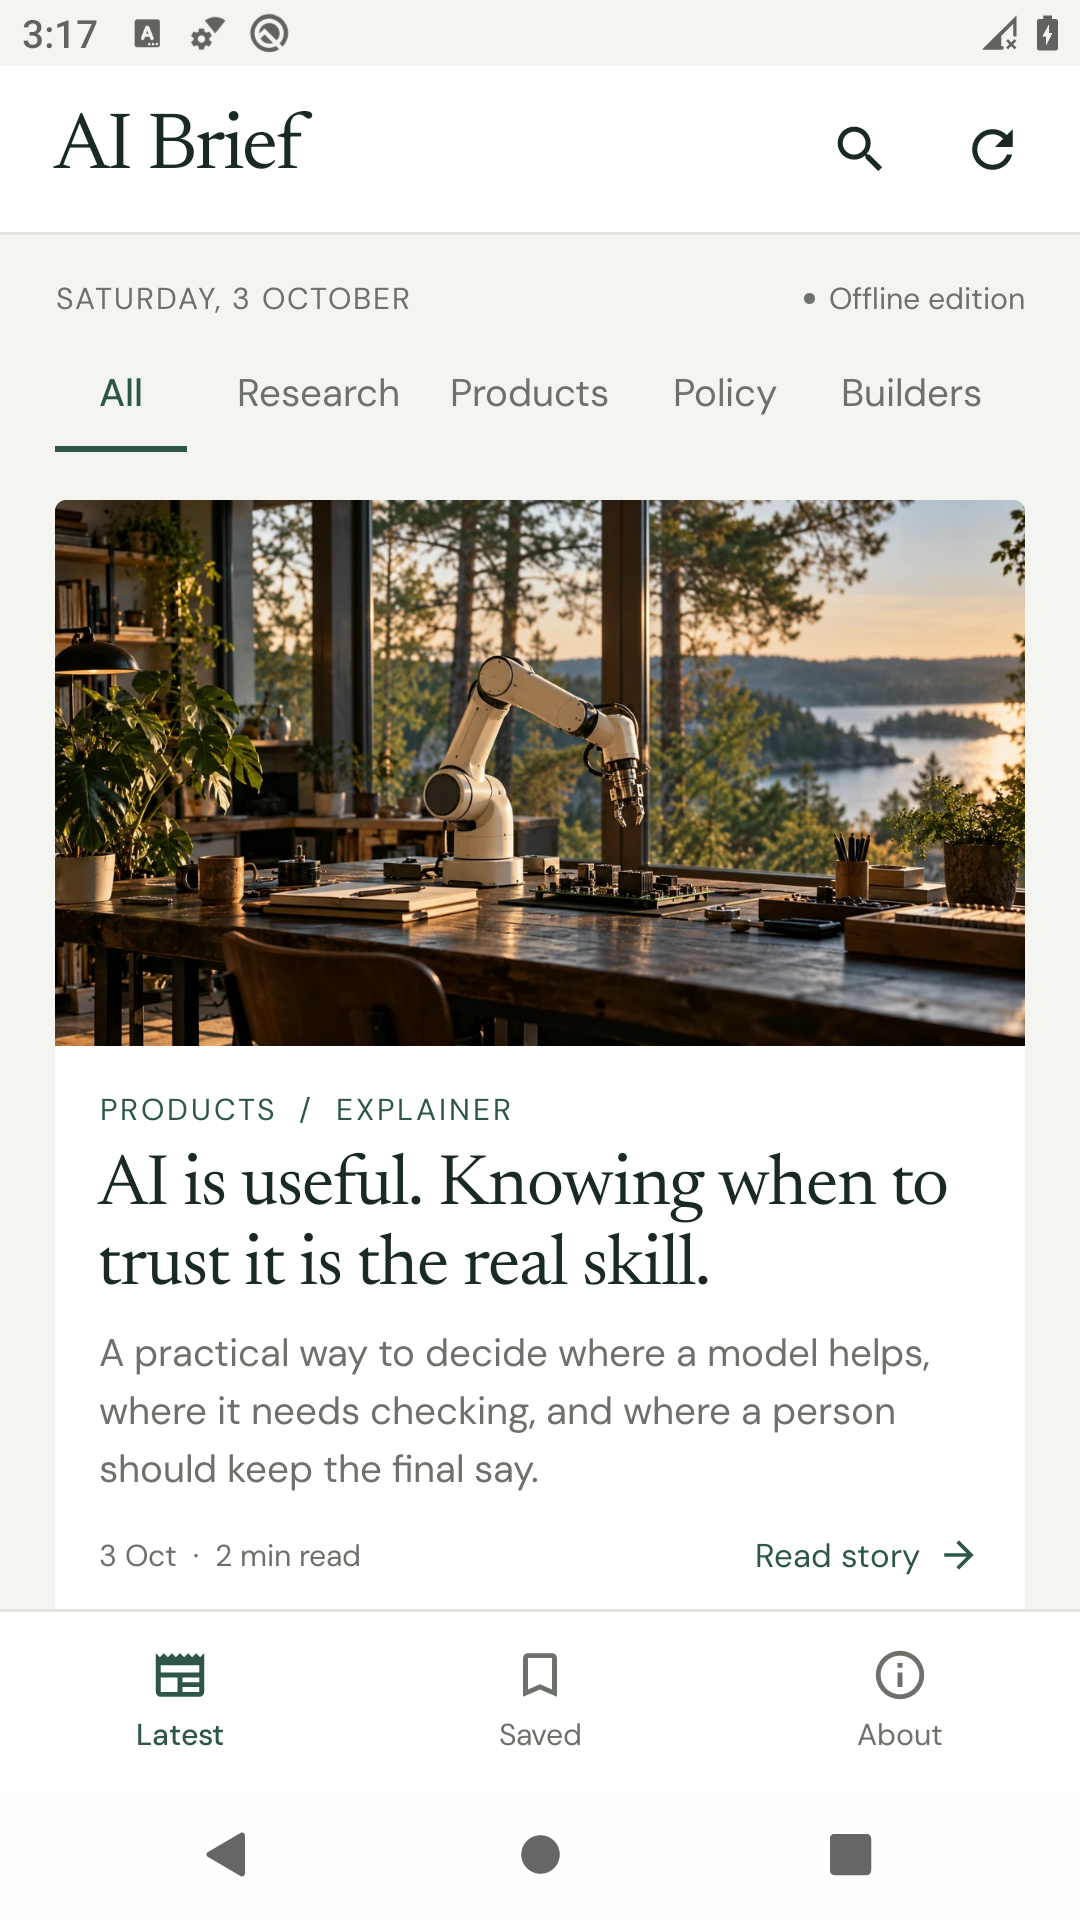
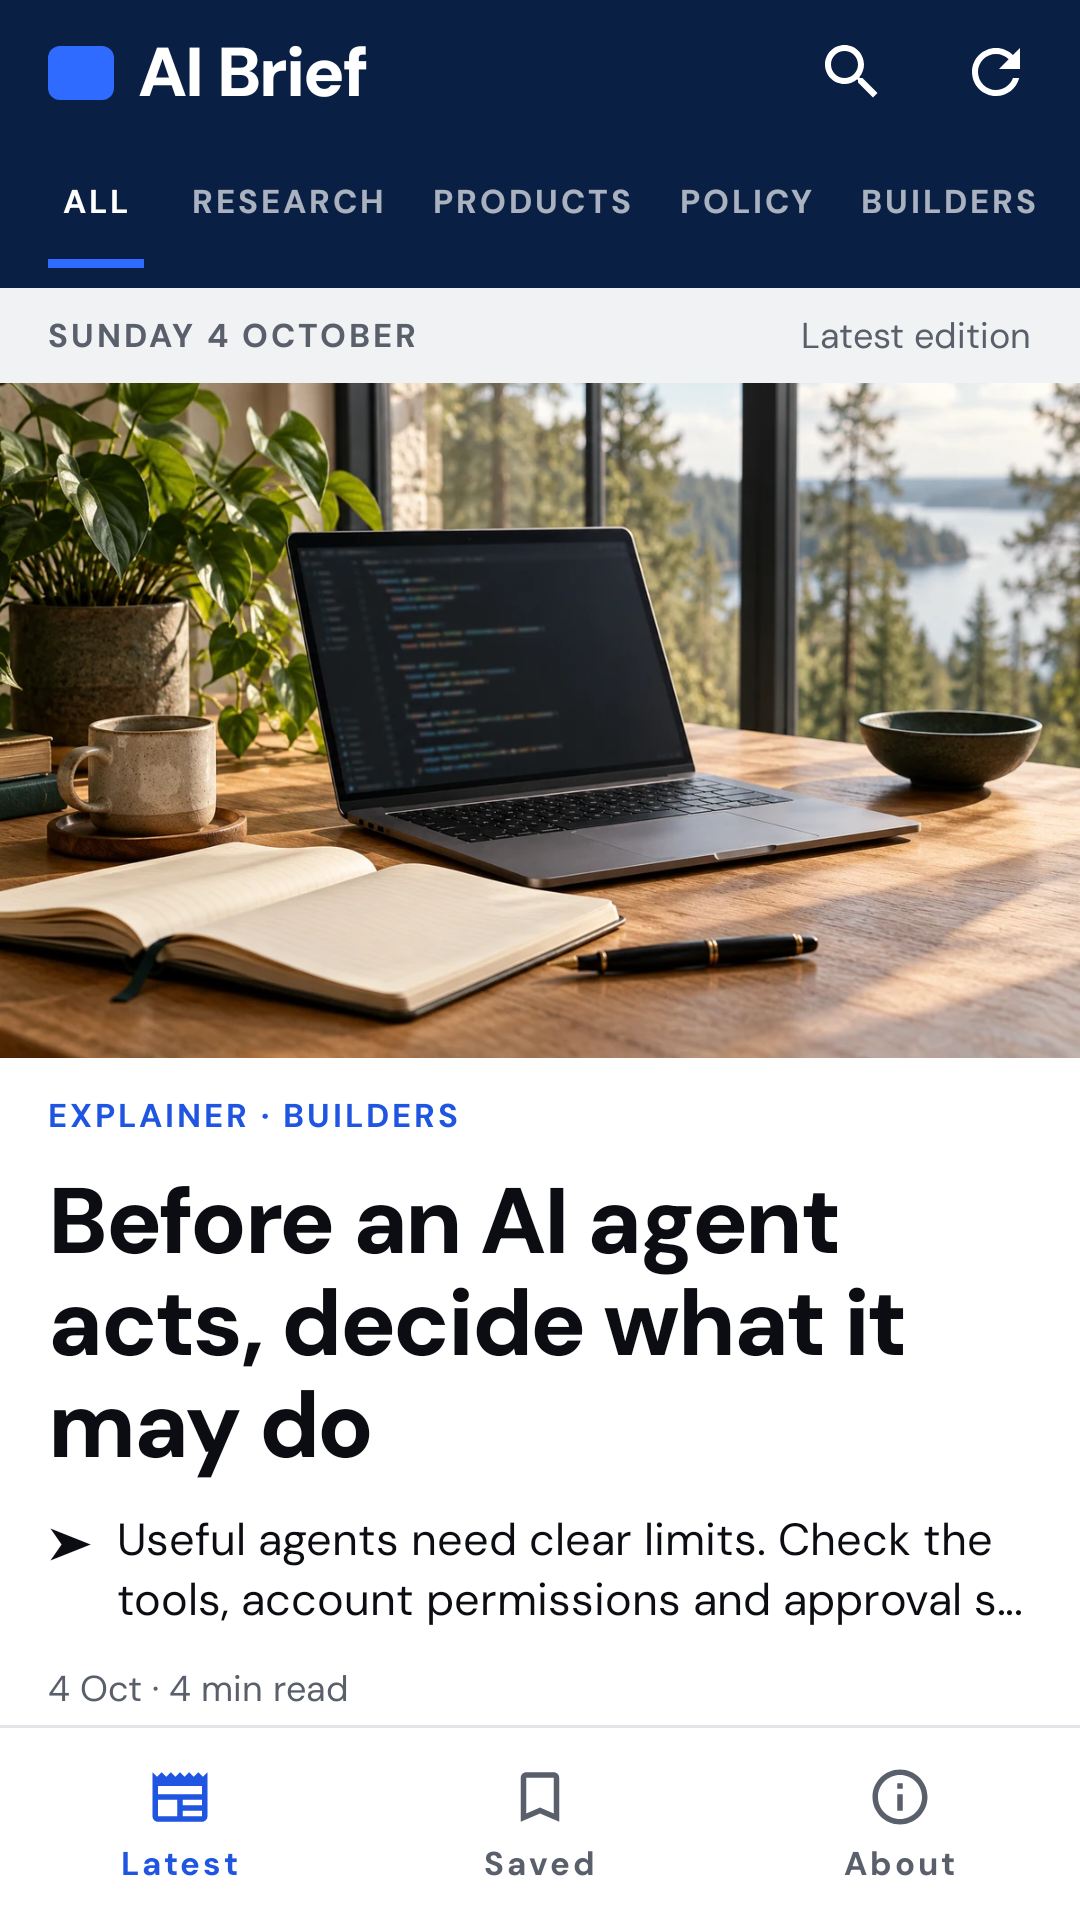
Retake the Play screenshots from the redesigned app
The four listing screenshots still showed the design from before the
November redesign, and the release checklist flagged them as out of date.
They are replaced by five 1080 x 1920 RGB PNGs of the current app: the
front page, an explainer in the reader, more headlines further down, the
saved shelf, and a Guide in dark mode.

The screenshots are rendered from the real published edition in
content/posts.json, so the listing shows stories readers will actually
find and no invented headlines. scripts/render-snapshots.sh now renders
them alongside the review snapshots (StoreSnaps), at full device
resolution and without an alpha channel as Play requires, so they can be
retaken after any later design change.

Claude-Session: https://claude.ai/code/session_012NCG7QqbAk5Sp4wfLLaRNu

diff --git a/CLAUDE.md b/CLAUDE.md
@@ -60,6 +60,7 @@ A cold build of the gates takes about 3 minutes.
 - Story types (`StoryFormat`: NEWS, BREAKING, EXPLAINER, OPINION, GUIDE, SPONSORED) each have one card and one reader header. Front-page order is `FeedLayout.compose`, covered by `FeedLayoutTest`.
 - The owner publishes from the **Publish a story** issue form (`.github/ISSUE_TEMPLATE/publish-story.yml` → `publish-from-issue.yml` → `scripts/issue_post.py` → `scripts/publish-post.py`). Editing the issue revises the story; Action = Unpublish removes it. Owner-only.
 - See screens without a device: `scripts/render-snapshots.sh` (Paparazzi in a throwaway copy, about 3 minutes). Read PNGs with a venv Pillow; the system Pillow is broken.
+- Play screenshots come from `StoreSnaps` in the same script (`store-*.png`, 1080 × 1920 RGB, real edition only, never invented headlines). Copy them to `docs/play/screenshots` after a visible design change. Paparazzi shrinks to 1000 px unless `useDeviceResolution = true`.
 - Sponsored posts must name a sponsor (parser drops them otherwise) and never lead. Opinion must be signed by a person.
 
 ## Code rules learned

diff --git a/docs/release/VERIFICATION.md b/docs/release/VERIFICATION.md
@@ -13,7 +13,7 @@ Prepared and checked on 3 October 2026. App source: **cab39cfa54ddf9e282506f4290
 - Six complete, original AI-assisted explainers bundled in assets/posts.json; every primary-source URL returned HTTP 200 in the source receipt. Editorial accuracy still requires the publisher's review.
 - Sideload certificate matches prior GitHub build 111 and local build 112, preserving direct phone-test update identity.
 - Mobile editor: browser-tested at 390px width; valid briefing copied, no horizontal overflow or page errors. Local contact/privacy routes render without login; public Pages deployment has not happened.
-- Store icon: 512×512 RGBA PNG. Feature graphic: 1024×500 RGB PNG. Four real Android screenshots: 1080×1920 RGB PNG, in docs/play/screenshots.
+- Store icon: 512×512 RGBA PNG. Feature graphic: 1024×500 RGB PNG. Five Android screenshots of the redesigned app (feed, reader, more stories, saved, dark Guide): 1080×1920 RGB PNG, in docs/play/screenshots, rendered from the published edition by `scripts/render-snapshots.sh`.
 
 ## Native reader evidence
 

diff --git a/PLAY_RELEASE_CHECKLIST.md b/PLAY_RELEASE_CHECKLIST.md
@@ -42,7 +42,7 @@ For the researched plan and official sources, read [docs/PLAY_LAUNCH_PLAN.md](do
 - [ ] App icon: **512 × 512**, 32-bit PNG, at most 1,024 KB; follow Play icon rules.
 - [ ] Feature graphic: **1024 × 500**, JPEG or 24-bit PNG without alpha.
 - [ ] **At least two actual app screenshots** are required. Four 1080 × 1920 portrait screenshots are recommended for promotional eligibility, not the minimum listing requirement.
-- [ ] Screenshots retaken after the November 2026 redesign (headline-style feed, story types). Earlier screenshots in `docs/play` show the old design.
+- [x] Screenshots retaken after the November 2026 redesign: five 1080 × 1920 RGB PNGs in `docs/play/screenshots`, rendered from the real published edition (`content/posts.json`) by `scripts/render-snapshots.sh` (`StoreSnaps`). Re-render after a design change and upload them in Play Console (owner).
 - [ ] Screenshots show the real release candidate, no invented UI/reviews/awards. Dimensions are 320–3840 px and maximum side is at most twice the minimum side.
 
 ## Final quality gate
